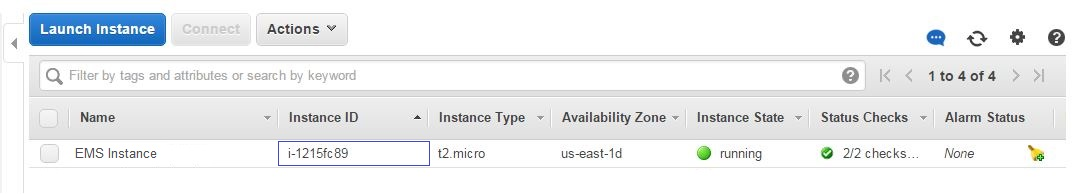
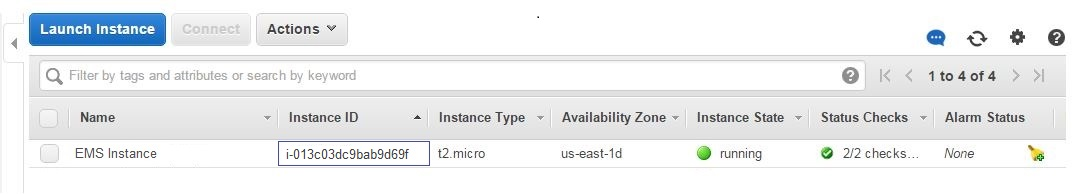
updated document
updated instance id
some steps
add screenshots

Changed region(s): [[0.2454, 0.7113, 0.3987, 0.866]]

diff --git a/_posts/2016-01-01-ems-quick-start-guide-amazon.md b/_posts/2016-01-01-ems-quick-start-guide-amazon.md
@@ -19,7 +19,6 @@ Amazon EC2 is a cloud-computing platform that virtualizes computing resources as
 ### Pre-requisites
 
 - Amazon Web Services Account
-- Amazon EC2 Account
 - Amazon EC2 Console Account
 
 
@@ -38,9 +37,10 @@ To get started with the EvoStream Media Server (EMS) on Amazon EC2 you will firs
    
    ![]({{site.baseurl}}/assets/image2.png)
    
-3. Select what type of EMS instance you will run:
-   
-   #### 1-Click Launch
+3. Select what type of EMS instance you will run: *(1-Click Launch or Manual Launch)*
+
+
+- **1-Click Launch**
 
 ![]({{site.baseurl}}/assets/image3.jpeg)
 
@@ -60,7 +60,7 @@ C.	Select or create the **VPC** to be used.
 
 ![]({{site.baseurl}}/assets/image6.jpeg)
 
-**Note:** See [*http://docs.aws.amazon.com/AmazonVPC/latest/UserGuide/VPC\_Introduction.html*](http://docs.aws.amazon.com/AmazonVPC/latest/UserGuide/VPC_Introduction.html) for more information on VPC.
+**Note:** See [**](http://docs.aws.amazon.com/AmazonVPC/latest/UserGuide/VPC_Introduction.html)*http://docs.aws.amazon.com/AmazonVPC/latest/UserGuide/VPC**_Introduction.html* for more information on VPC.
 
 D.	Choose a **Security Group**
 
@@ -93,7 +93,7 @@ F.	Review the settings created, click on **Launch with 1-Click**
 
 
 
-#### Manual Launch
+* **Manual Launch**
 
 ![]({{site.baseurl}}/assets/image10.jpeg)
 
@@ -121,13 +121,19 @@ While most work with the EMS happens at the command line or through the HTTP bas
 
 
 
-### Determining Public IP:
+### Determining Public IP
 
-1. In the Navigation pane of the EC2 Management Console, under Instances, click **Instances**.
+1. Sign in to *https://console.aws.amazon.com*
    
-2. Select the running instance.
+2. Click on the **EC2** under compute
    
-3. In the lower pane, click the **Description tab**. The Public DNS value is the public domain name of your running instance and the Instance ID is the instances instance ID.
+   ![]({{site.baseurl}}/assets/image23.jpeg)
+   
+3. In the Navigation pane of the EC2 Management Console, under Instances, click **Instances**.
+   
+4. Select the running instance.
+   
+5. In the lower pane, click the **Description tab**. The Public DNS value is the public domain name of your running instance and the Instance ID is the instances instance ID.
    
    ![]({{site.baseurl}}/assets/image13.jpeg)
 
@@ -137,14 +143,19 @@ While most work with the EMS happens at the command line or through the HTTP bas
 
 The Web UI is protected by default when using the EMS on AWS.  When accessing the Web UI you will be prompted for a username and password.
 
+![]({{site.baseurl}}/assets/authentication.jpeg)
+
 * Username: evostream
 * Password: "Amazon Instance ID" - this will need to be obtained via your Amazon account.
 
 
 
-Getting the Amazon Instance ID
+#### Getting the Amazon Instance ID
 
-1. Sign in to [*https://aws.amazon.com/*](https://aws.amazon.com/)
+- **From Amazon Console**
+
+
+1. Sign in to *https://console.aws.amazon.com*
    
 2. Click on the **EC2** under compute
    
@@ -157,6 +168,28 @@ Getting the Amazon Instance ID
 4. Click on the **Instance Name** provided for the EMS, and look for the **Instance ID** given.  This will be your password.
 
 ![]({{site.baseurl}}/assets/image25.jpeg)
+
+
+
+- **From Terminal**
+
+Enter command in the SSH terminal:
+
+``` 
+curl http://<Public_IP>/latest/meta-data/instance-id -w "\n"
+```
+
+**Example:**
+
+``` 
+curl http://52.91.237.115/latest/meta-data/instance-id -w "\n"
+```
+
+Response:
+
+``` 
+
+```
 
 
 
@@ -174,9 +207,18 @@ Connecting to your new instance via SSH is exactly the same as connecting to any
 
 1. Locate the .pem (key file)
    
-2. Send command: ssh –i ./&lt;evostream-keys.pem&gt; ubuntu@&lt;public\_IP&gt;
+2. Send command: ssh –i ./<evostream-keys.pem> ubuntu@<public\_IP>
    
-   **Note:** Public IP can be found on the Amazon instances
+   **Note:** Public IP can be found on the Amazon instances. See Determining Public IP.
+   
+   ``` 
+   test@ubuntu:~/Desktop$ ssh -i ./qakeys.pem ubuntu@52.91.237.115
+   The authenticity of host '52.91.237.115 (52.91.237.115)' can't be established.
+   ECDSA key fingerprint is ae:02:ee:41:ff:38:96:ab:78:7b:3a:e6:09:ed:1f:4c.
+   Are you sure you want to continue connecting (yes/no)? 
+   ```
+   
+3. Input "**yes**", press **Enter**
    
    ![]({{site.baseurl}}/assets/image13.jpeg)
    
@@ -190,18 +232,20 @@ Connecting to your new instance via SSH is exactly the same as connecting to any
    
    ``` 
    Welcome to Ubuntu 14.04.2 LTS (GNU/Linux 3.13.0-46-generic x86_64)
-   
-   	Documentation:  https://help.ubuntu.com/
-    System information as of Wed Jan 20 09:11:53 UTC 2016
-    System load:  0.0               Processes:           106
-    Usage of /:   13.9% of 7.74GB   Users logged in:     1
-    Memory usage: 2%                IP address for eth0: 11.22.33.44.55
-    Swap usage:   0%
-    Graph this data and manage this system at:
-      https://landscape.canonical.com/
-    Get cloud support with Ubuntu Advantage Cloud Guest:
-      http://www.ubuntu.com/business/services/cloud
+      
+   	Documentation:  https://help.ubuntu.com/
+    System information as of Wed Jan 20 09:11:53 UTC 2016
+    System load:  0.0               Processes:           106
+    Usage of /:   13.9% of 7.74GB   Users logged in:     1
+    Memory usage: 2%                IP address for eth0: 11.22.33.44.55
+    Swap usage:   0%
+    Graph this data and manage this system at:
+      https://landscape.canonical.com/
+    Get cloud support with Ubuntu Advantage Cloud Guest:
+      http://www.ubuntu.com/business/services/cloud
    ```
+   
+   
    
    
 
@@ -240,9 +284,9 @@ The first thing you’ll need to do is convert the private key. The PuTTY Secure
    
 5. Click **Save private key** and save the file with the name **\[key-pair-name\].ppk**.
 
-####  
+ 
 
-#### To connect via SSH:
+#### Connecting via SSH
 
 1. Run PuTTY
    
@@ -265,22 +309,28 @@ The first thing you’ll need to do is convert the private key. The PuTTY Secure
 5. Click the **Browse** button to find and open the **\[key-pair-name\].ppk** file
    
    ![]({{site.baseurl}}/assets/image18.jpg)
-
-**Note:** If you will be opening this same session later, you can save it for future use.
-
-***To save the session information:***
-
-On the Basic options for your PuTTY Session page, enter a name for the session in Saved Sessions, and then click the **Save** button
-
-![]({{site.baseurl}}/assets/image19.jpg)
-
-1. Click on **SSH** under the Connection category
    
-2. Click the **Open** button to open the secure SSH session. The first time you connect to your instance, you'll get a PuTTY Security Alert that references the first use of **\[key-pair-name\].pem**
+   **Note:** If you will be opening this same session later, you can save it for future use
    
-3. Click **Yes** to accept the security key.
+   ***To save the session information:***
+   
+   On the Basic options for your PuTTY Session page, enter a name for the session in Saved Sessions, and then click the **Save** button
+   
+   ![]({{site.baseurl}}/assets/image19.jpg)
+   
+   
+   
+6. Click the **Open** button to open the secure SSH session. The first time you connect to your instance, you'll get a PuTTY Security Alert that references the first use of **\[key-pair-name\].pem**
+   
+7. Click **Yes** to accept the security key
    
    ![]({{site.baseurl}}/assets/image20.png)
+   
+8. Logged in as "**ubuntu**"
+   
+   ![]({{site.baseurl}}/assets/loggedin.jpeg)
+
+
 
 If you previously saved the SSH session information for this Amazon EC2 instance, do the following:
 
@@ -293,10 +343,16 @@ If you previously saved the SSH session information for this Amazon EC2 instance
    ![]({{site.baseurl}}/assets/image21.jpg)
    
 4. Click the **Open** button to open the secure SSH session.
-   
-   ![]({{site.baseurl}}/assets/image22.png)
 
-**Note:** You should see the login as: prompt in the SSH client window. Enter the Username and to login to your Amazon EC2 instance.
+**Note:** You should see the login as: prompt in the SSH client window. Enter "**ubuntu**" as the username 
+
+![]({{site.baseurl}}/assets/image22.png)
+
+![]({{site.baseurl}}/assets/loggedin.png)
+
+
+
+
 
 To end your SSH session, enter the exit command or press **CTRL+D**. You may have to do this twice if you're logged-in as the root user.
 
@@ -322,7 +378,7 @@ http://Username:Password@IPAddress:Port/apiproxy/CommandName?params=<base64Encod
 **Sample Command:** 
 
 ``` 
-http://evostream:i-48293048@52.91.237.115:8888/apiproxy/version
+http://evostream:i-013c03dc9bab9d69f@52.91.237.115:8888/apiproxy/version
 ```
 
 **Note:** username is “**evostream**” and password is the “**instance ID**”
